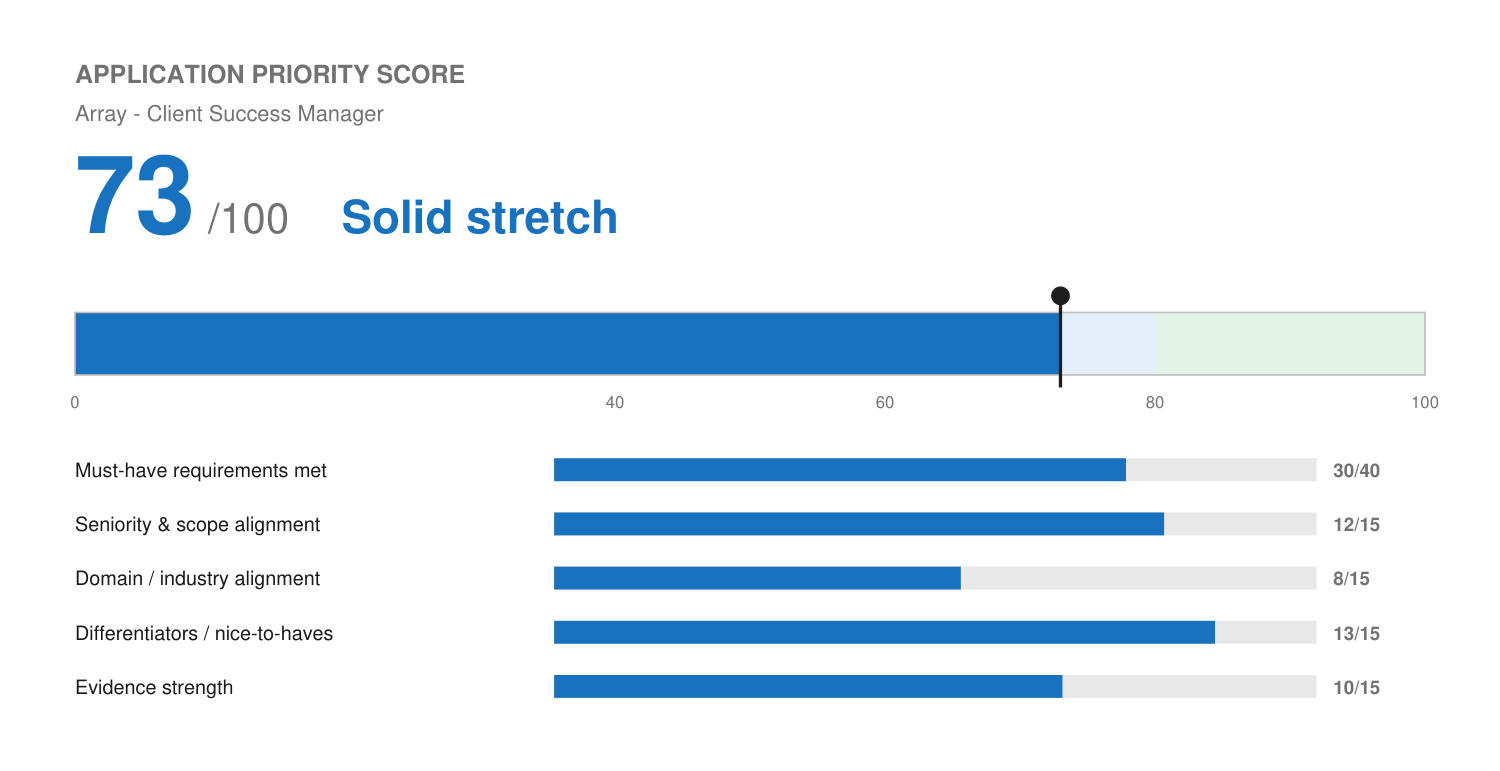
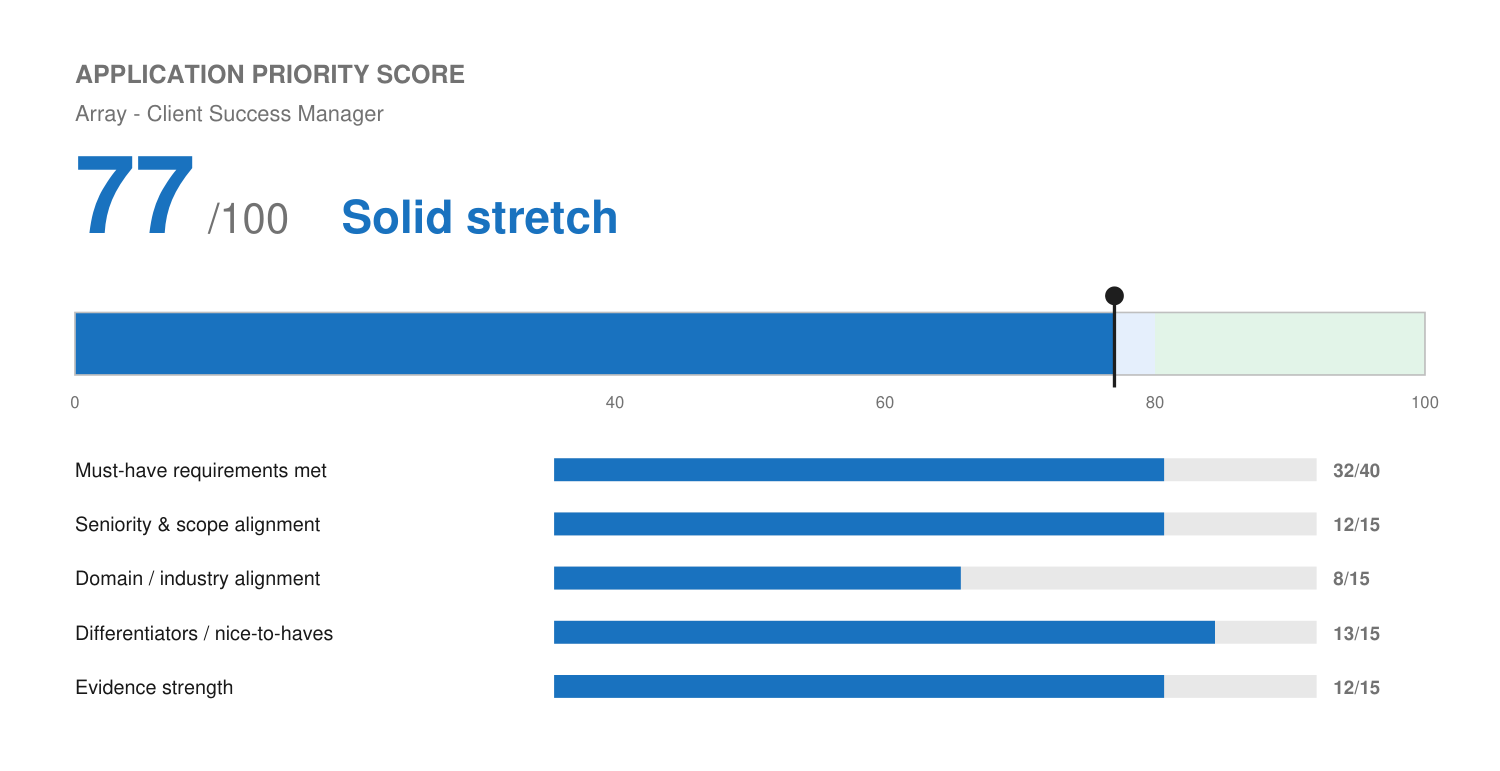
Capture Wix ARR-floor and Accelo quota-anchor metrics; update Array resume/score
Master profile: confirmed each Wix account carried a minimum $25K ARR (25+/month),
and Accelo personal quota started at least $8K/month MRR before doubling.

Array Client Success Manager: added the Wix ARR floor to the resume, closing part
of the "$5M+ ARR" requirement gap. Score updated 73 -> 77/100.

diff --git a/applications/array-client-success-manager/match-report.md b/applications/array-client-success-manager/match-report.md
@@ -15,31 +15,33 @@
 | CLEAR identity verification | Application-form | Standard background/identity step in Array's process, not a resume item. |
 | Scored onboarding assessments (post-hire) | Informational | Part of Array's stated onboarding process, not a pre-application screen. No action needed now. |
 | Financial-industry knowledge | Resume-evidenced (adjacent) | Posting lists this as "a plus," not a hard requirement. |
-| "$5+ million in ARR" book scale | Needs candidate confirmation | See Gaps below — this is the one concrete number the posting names that the profile can't currently back up. |
+| "$5+ million in ARR" book scale | Resume-evidenced (partial) | Confirmed floor: each Wix account carried a minimum $25K ARR, 25+ onboarded/month. No total portfolio-value figure exists (see Gaps), but the per-account floor is now on the resume. |
 
 No eligibility knockout found. Nothing here should stop Josh from applying.
 
 ## Application Priority Score
 
 ```
-🔵 Application Priority Score: 73 / 100 — Solid stretch
-[███████████████░░░░░]  73%
+🔵 Application Priority Score: 77 / 100 — Solid stretch
+[███████████████░░░░░]  77%
 ```
 
 Internal decision aid only, not a prediction of Array's own screening outcome. See `fit.png`.
 
 | Dimension | Score | Max |
 | :--- | :--- | :--- |
-| Must-have requirements met | 30 | 40 |
+| Must-have requirements met | 32 | 40 |
 | Seniority & scope alignment | 12 | 15 |
 | Domain / industry alignment | 8 | 15 |
 | Differentiators / nice-to-haves | 13 | 15 |
-| Evidence strength | 10 | 15 |
+| Evidence strength | 12 | 15 |
+
+*(Updated 2026-09-17 after Josh confirmed the Wix $25K-minimum-ARR-per-account floor, up from an initial 73/100.)*
 
 ## Requirement coverage
 
 - **3+ years B2B Client Success, owning a book of strategic accounts** — Covered (strong). 15+ years across Wix, Birdeye, Fetch & Funnel, Level Agency, and Solenzo, all client-facing account ownership from onboarding through renewal.
-- **Client health, retention, and revenue growth "in the ballpark of $5+ million in ARR"** — Covered (adjacent) for the retention/health discipline; the specific ARR scale is a genuine gap (see below).
+- **Client health, retention, and revenue growth "in the ballpark of $5+ million in ARR"** — Covered (adjacent). Each Wix account carried a minimum $25K ARR, 25+ onboarded/month; no aggregate portfolio-value figure exists, but the per-account floor is real, confirmed evidence toward this ask.
 - **Managing and expanding high-impact strategic relationships, preferably financial sector** — Covered (adjacent). Birdeye's 15-20 partner book (~94% retention, $10K-$45K deals) evidences the expansion/retention discipline; Fetch & Funnel's banking client and finalist-stage banking prospect is the direct financial-sector data point.
 - **Exceptional interpersonal skills, growing/retaining accounts via service** — Covered (strong). Wix (120%/110% attainment), Birdeye (94% retention).
 - **Entrepreneurial mindset, ownership** — Covered (strong). Solenzo founder since 2024.
@@ -54,13 +56,12 @@ Internal decision aid only, not a prediction of Array's own screening outcome. S
 
 ## Gaps
 
-- **No verified number for total ARR or portfolio value managed.** The posting names "$5+ million in ARR" specifically; nothing in the master profile currently supports a book-value claim at that scale (Birdeye's numbers are per-deal contract sizes, not portfolio ARR). The resume does not claim an ARR figure, since none is verified.
+- **No total portfolio-value (aggregate ARR under management) figure.** Confirmed is a per-account floor ($25K ARR minimum per Wix client, 25+/month), not a total book value, since that would require knowing how many accounts stayed concurrently active, which isn't tracked. The resume states the confirmed floor only, not an inferred total.
 - **No dedicated fintech/financial-institution employer tenure.** The Fetch & Funnel banking client and prospect are real but modest; this isn't a multi-year fintech career.
 
 ## Candidate confirmation needed
 
-- **Portfolio ARR or annual book value**, at Birdeye or elsewhere. If Josh has even a rough range for what his managed book was worth annually (not just per-deal size), it would directly strengthen the strongest weakness in this application and should go into `master-profile.md` under Numbers Worth Capturing once he supplies it.
-- **Comp expectations for this level.** The profile's standing baseline is scoped to associate/entry-mid roles and explicitly doesn't apply here; Josh should have his own number ready before a recruiter call.
+- **Comp expectations for this level.** Josh has said he'll work with whatever Array offers; no further action needed unless a recruiter asks for a specific number.
 
 ## Referral
 

diff --git a/profile/master-profile.md b/profile/master-profile.md
@@ -570,12 +570,14 @@ operator talking, not like a candidate performing.
 - **30% increase in website traffic** (Wix, e-commerce segment)
 - **25% improvement in conversion rates** (Wix, supported accounts / e-commerce segment)
 - **25+ clients onboarded/launched per month** (Wix, personal monthly load across the two-year tenure)
+- **Each Wix account carried a minimum $25,000 ARR (annual contract value)** (confirmed by Josh, Sep 2026) — applies to the 25+ clients/month above, i.e. a floor of $25K ARR per account, not an average or a total portfolio value. Useful evidence toward any JD asking for a minimum deal-size or book-value threshold; do not multiply this out into an implied total portfolio ARR figure without a real basis for how many accounts stayed active concurrently.
 - **120% of sales targets and 110% of implementation targets** (Wix, attainment against quota; role was primarily sales in year one, combined sales and implementation in year two)
 - **15+ years** total experience in MarTech / SaaS / agency
 - **5+ years** building CRM & marketing automation (GoHighLevel primary, HubSpot secondary)
 - **4 years** of SEO experience specifically, per Josh (self-reported, Aug 2026)
 - **~$17,750/month average implementation (services) bookings at Accelo (~$213K/yr annualized)**, plus new recurring revenue — consistently above commission floor into accelerator tiers (per Accelo commission records)
 - **Top three in sales on a team of 8 to 15 reps at Accelo**, for all but the final few months of tenure, sustained while **quota roughly doubled**
+- **Accelo personal quota started at a minimum of ~$8,000/month MRR and increased over the 27-month tenure** (self-estimated bracket, confirmed by Josh, Sep 2026) — the starting-point anchor for the "quota roughly doubled" figure above; exact ending figure not captured, use "at least $8K/month starting, doubling over tenure" rather than inferring a precise end number.
 - **Accelo deal sizes of $20K+** later in tenure, alongside a base of smaller wins
 - **6 deals closed at Fetch & Funnel averaging ~$22K each (several $25K+), ~$130K+ total bookings** over tenure (per-deal contract value, confirmed by Josh)
 - **15–20 reseller partners onboarded/managed at Birdeye · ~94% retention (all but one retained) · deals ~$10K–$45K**
